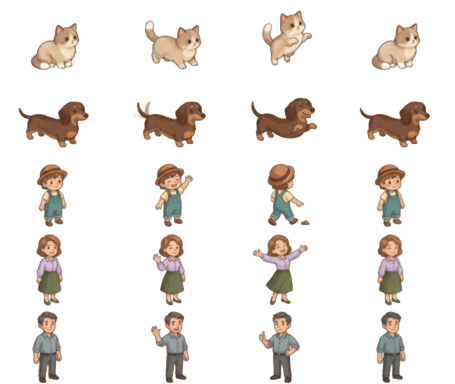
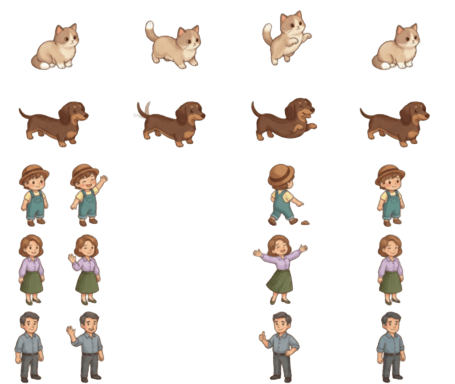
調整

Changed region(s): [[0.0308, 0.4062, 0.2462, 1.0], [0.3077, 0.4062, 0.4308, 1.0]]

diff --git a/hesokuri-cho/src/config/spriteConfig.ts b/hesokuri-cho/src/config/spriteConfig.ts
@@ -152,18 +152,18 @@ export const SPRITE_CONFIG: Record<string, SpriteDefinition> = {
   },
   'CR-03': { // 子供
     sourceId: 'chara', originalWidth: 455, originalHeight: 384, startX: 0, startY: 157,
-    frameWidth: 114, frameHeight: 76, frameCount: 2, frameSpacingX: 0, offsetX: -3, offsetY: 46,
-    baseScale: 1.0, isAnimated: true, animationSpeed: 2000,
+    frameWidth: 58, frameHeight: 76, frameCount: 2, frameSpacingX: 0, offsetX: -6, offsetY: 78,
+    baseScale: 0.5, isAnimated: true, animationSpeed: 2000,
   },
   'CR-04': { // 大人(女)
     sourceId: 'chara', originalWidth: 455, originalHeight: 384, startX: 0, startY: 234,
-    frameWidth: 122, frameHeight: 76, frameCount: 2, frameSpacingX: 0, offsetX: -2, offsetY: 36,
-    baseScale: 1.2, isAnimated: true, animationSpeed: 2000,
+    frameWidth: 58, frameHeight: 76, frameCount: 2, frameSpacingX: 0, offsetX: -4, offsetY: 68,
+    baseScale: 0.6, isAnimated: true, animationSpeed: 2000,
   },
   'CR-05': { // 大人(男)
-    sourceId: 'chara', originalWidth: 455, originalHeight: 384, startX: 0, startY: 314,
-    frameWidth: 127, frameHeight: 76, frameCount: 2, frameSpacingX: 0, offsetX: -2, offsetY: 36,
-    baseScale: 1.2, isAnimated: true, animationSpeed: 2000,
+    sourceId: 'chara', originalWidth: 455, originalHeight: 384, startX: 0, startY: 310,
+    frameWidth: 60, frameHeight: 76, frameCount: 2, frameSpacingX: 0, offsetX: -4, offsetY: 68,
+    baseScale: 0.6, isAnimated: true, animationSpeed: 2000,
   },
   // ▼ 追加: 壁紙アイテム
   'WP-01': {

diff --git a/hesokuri-cho/src/components/garden/IsometricGardenCanvas.tsx b/hesokuri-cho/src/components/garden/IsometricGardenCanvas.tsx
@@ -74,10 +74,10 @@ export const IsometricGardenCanvas: React.FC<Props> = ({
     return nodes.sort((a, b) => a.zIndex - b.zIndex);
   }, [placements]);
 
-  // ▼ アイテム構成（種類と数、反転状態）の変更を検知する文字列（座標移動では変化しない）
+  // ▼ アイテム構成（種類と数）の変更を検知する文字列（座標移動、反転、レベルアップ等では変化させない）
   const itemConfigString = useMemo(() => {
-    return placements.map(p => `${p.itemId}-${p.isFlipped}`).sort().join(',') + `-PL${plantLevel}`;
-  }, [placements, plantLevel]);
+    return placements.map(p => p.itemId).sort().join(',');
+  }, [placements]);
 
   // ▼ 画像のロード完了検知ロジック
   const totalImages = renderList.length;
